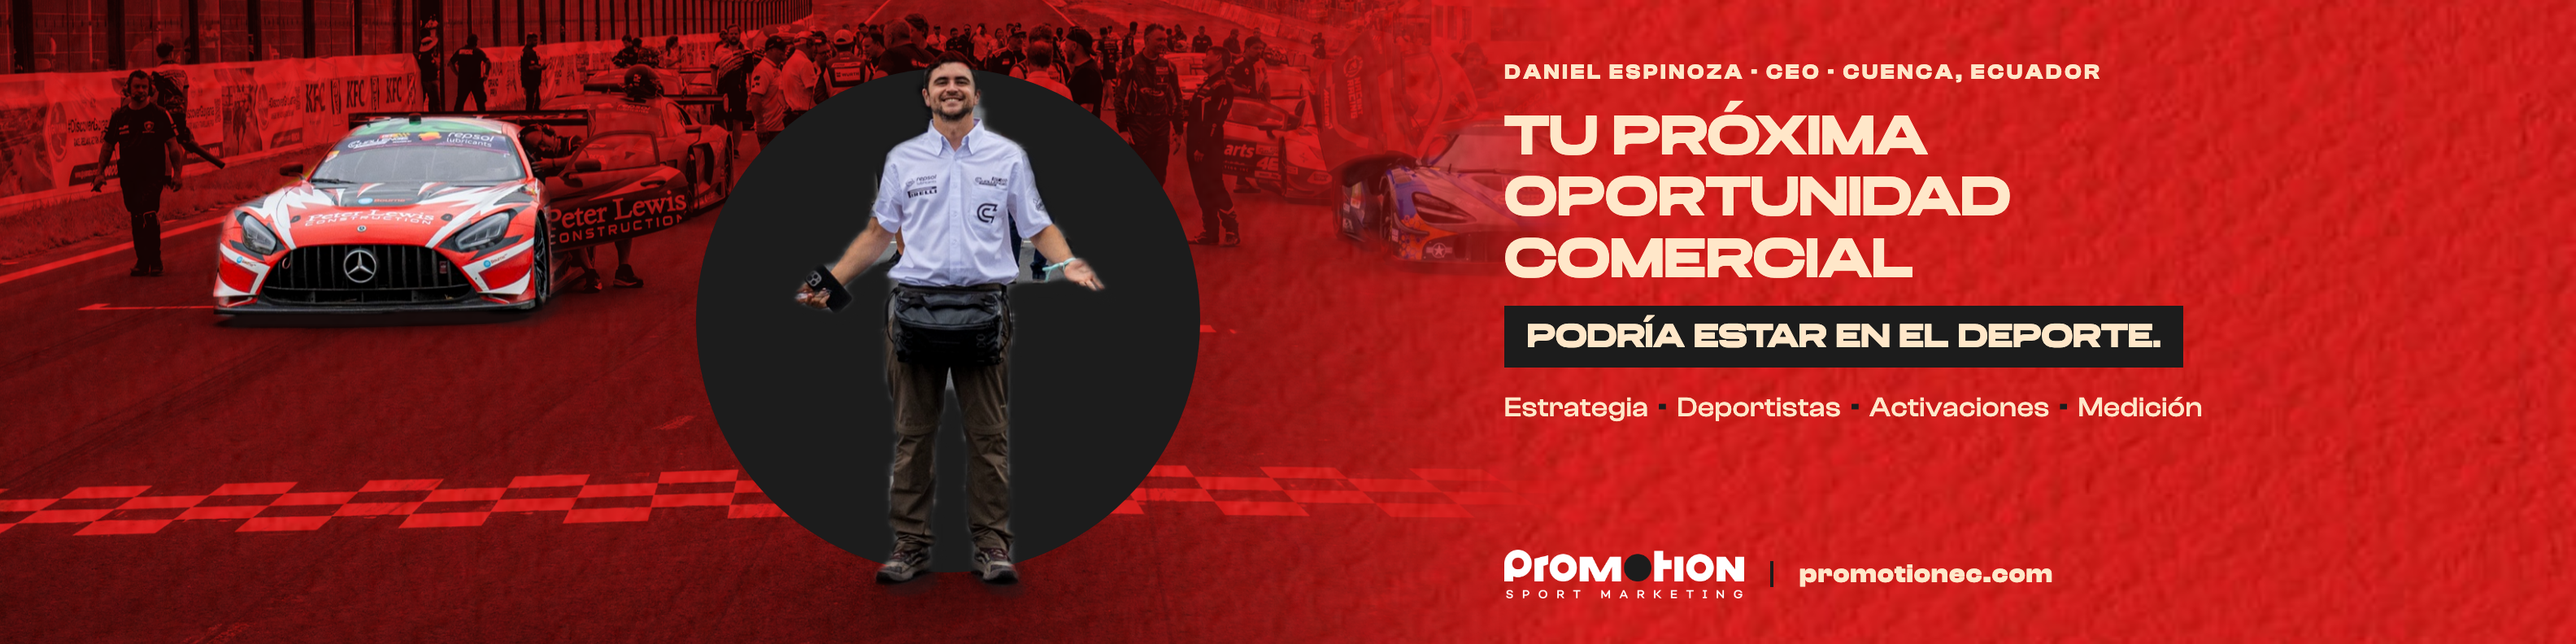
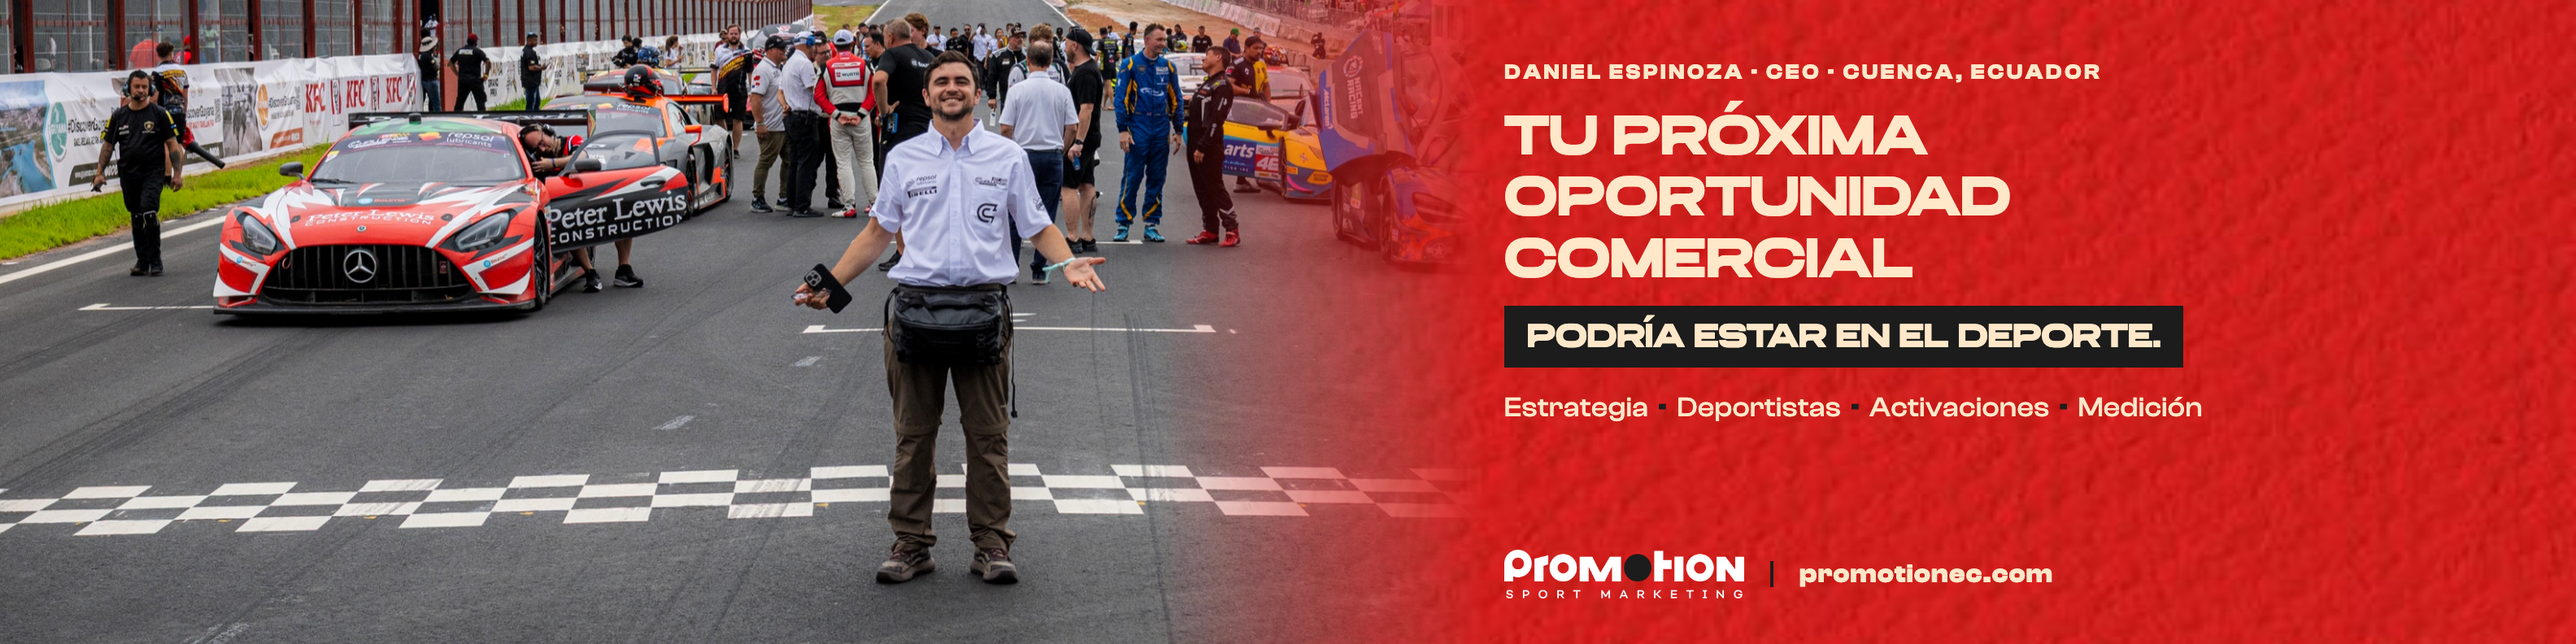
Portada con la foto real completa, sin recorte

diff --git a/index.html b/index.html
@@ -220,9 +220,9 @@ Marketing deportivo · Patrocinio deportivo · Activaciones de marca · Estrateg
 
 <div class="step"><div class="num">8</div><div>
 <h3>Portada</h3>
-<p>Tú en la parrilla del GT Challenge Guyana, sobre el papel rojo de Pro Motion. Diseñada para que tu foto de perfil no tape nada importante.</p>
-<img src="portada-linkedin.png" alt="Portada de LinkedIn de Daniel Espinoza para Pro Motion" style="width:100%;border-radius:10px;display:block;margin:12px 0">
-<p><a href="portada-linkedin.png" download="portada-linkedin-daniel-espinoza.png" style="display:inline-block;background:var(--ink);color:var(--bg);padding:10px 16px;border-radius:8px;text-decoration:none;font-weight:600">Descargar portada</a></p>
+<p>Tu foto real en la parrilla del GT Challenge Guyana, difuminada hacia el papel rojo de Pro Motion. Diseñada para que tu foto de perfil no tape nada importante.</p>
+<img src="portada-linkedin.png?v=2" alt="Portada de LinkedIn de Daniel Espinoza para Pro Motion" style="width:100%;border-radius:10px;display:block;margin:12px 0">
+<p><a href="portada-linkedin.png?v=2" download="portada-linkedin-daniel-espinoza.png" style="display:inline-block;background:var(--ink);color:var(--bg);padding:10px 16px;border-radius:8px;text-decoration:none;font-weight:600">Descargar portada</a></p>
 <ol>
 <li>Descárgala con el botón de arriba.</li>
 <li>En tu perfil, clic en el <span class="click">lápiz</span> en la esquina superior derecha de la portada → <span class="click">Cambiar foto</span> → elige el archivo.</li>
